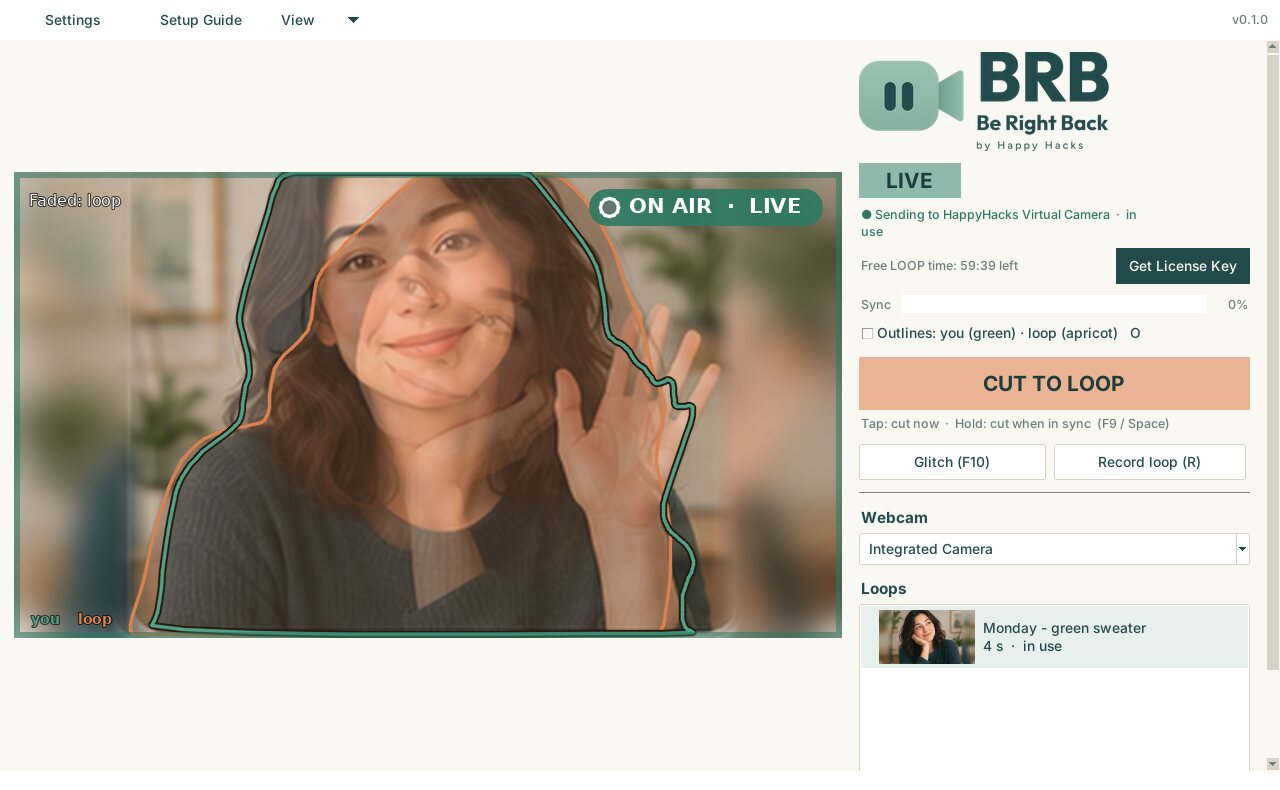
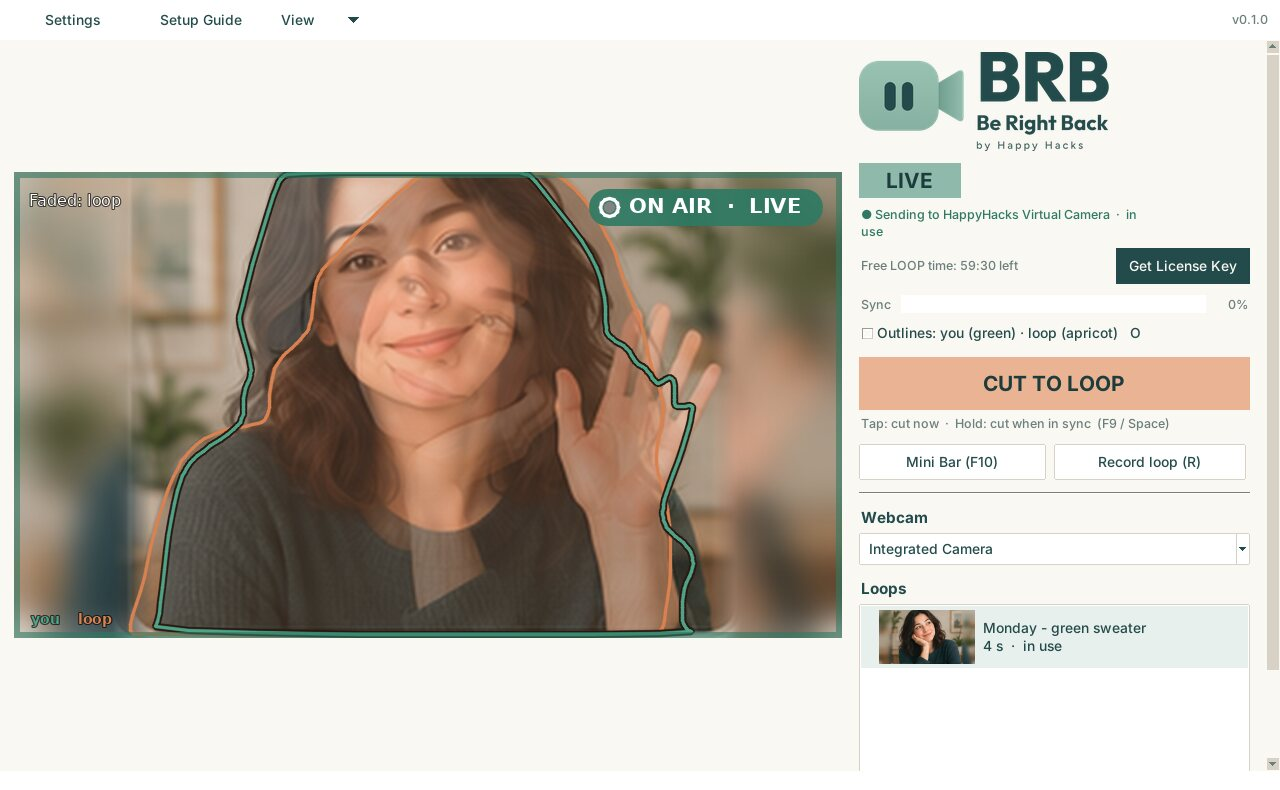
Guide and See it in action: no glitch effect; F10 switches full window / Mini Bar; new screenshots
Claude-Session: https://claude.ai/code/session_011pvpSPK9TdpwTULbn1yetv

diff --git a/dopplesite/templates/see.html b/dopplesite/templates/see.html
@@ -86,10 +86,11 @@
     <li class="see-step">
       <div class="see-text">
         <h2>Tip: the Mini Bar</h2>
-        <p>Choose <b>View → Mini Bar</b> for a small always-on-top strip you can park beside your meeting, with a
-          live thumbnail and the switch button. BRB's windows never show up in your screen share.</p>
+        <p>Press <b>F10</b> (or <b>View → Mini Bar</b>) for a small always-on-top strip you can park beside your
+          meeting, with a live thumbnail and the switch button. F10 again brings the full window back, even while
+          your meeting app is in front. BRB's windows never show up in your screen share.</p>
       </div>
-      <figure class="shot mini"><img src="{{ asset('img/action/minibar.jpg') }}" width="448" height="143" loading="lazy"
+      <figure class="shot mini"><img src="{{ asset('img/action/minibar.jpg') }}" width="402" height="143" loading="lazy"
         alt="The BRB Mini Bar: a thumbnail, the LIVE badge and a Cut to loop button"></figure>
     </li>
   </ol>

diff --git a/static/css/site.css b/static/css/site.css
@@ -242,7 +242,7 @@ code.key { font-size: 1.1rem; padding: 6px 10px; letter-spacing: .04em; }
 .shot { margin: 0; border-radius: 16px; overflow: hidden; background: var(--paper); border: 1px solid var(--line);
   box-shadow: 0 14px 40px rgba(36, 75, 75, .14); }
 .shot img { display: block; width: 100%; height: auto; }
-.shot.mini { max-width: 448px; justify-self: center; }
+.shot.mini { max-width: 402px; justify-self: center; }
 .meet { background: #1F2A2A; border-radius: 18px; padding: 12px; display: grid; grid-template-columns: 1fr 1fr; gap: 10px;
   box-shadow: 0 14px 40px rgba(36, 75, 75, .18); }
 .tile { position: relative; aspect-ratio: 249 / 184; border-radius: 10px; overflow: hidden; display: grid; place-items: center; }

diff --git a/GUIDE.md b/GUIDE.md
@@ -56,13 +56,13 @@ Release files are signed with a self-signed "BRB" certificate (`doppleganger-pub
 | Area | What it does |
 |---|---|
 | **Toolbar** | *Settings*, *Setup Guide*, and *View*: Normal or Mini Bar, larger / smaller text. |
-| **LIVE / LOOP** | What your meeting sees right now. LIVE is green, LOOP is apricot; GLITCH appears in amber while the glitch effect is running. The preview shows it too: a pulsing **ON AIR** sign and a border in the same colour. While recording, the badge turns red with the time (● REC 0:42 / 1:30). |
+| **LIVE / LOOP** | What your meeting sees right now. LIVE is green, LOOP is apricot. The preview shows it too: a pulsing **ON AIR** sign and a border in the same colour. While recording, the badge turns red with the time (● REC 0:42 / 1:30). |
 | **Sync** | How seamless a cut would be right now (green = in sync). |
 | **Cut button** | **Tap:** cut immediately (hard cut). **Hold:** BRB waits and cuts by itself the moment you're in sync; let go first to cancel. The button wears the colour of where you're cutting *to*. |
-| **Glitch / Record loop** | See below. |
+| **Mini Bar (F10) / Record loop (R)** | Switch to the Mini Bar; record a new loop (see below). |
 | **Webcam** | Pick which camera is your live feed (virtual cameras are never offered). |
 | **Loops** | Your loop library: thumbnails, names (*Rename*), *Use*, *Delete*. A ⚠ appears when a loop's lighting doesn't match your room right now (darker, brighter, different colour). |
-| **Mini Bar** (*View → Mini Bar*) | A compact always-on-top strip with a live thumbnail, sync meter, Cut and Glitch, to park beside your meeting. Drag it by the logo; *Full view* brings the window back. |
+| **Mini Bar** (*View → Mini Bar*) | A compact always-on-top strip with a live thumbnail, sync meter and Cut, to park beside your meeting. Drag it by the logo; *Full view*, **F10** or **M** brings the window back. |
 | **Settings** | License, text size, privacy, crossfade, guides, outlines, overlay strength, **recording length (60-600 s, default 90)**, the camera, updates. |
 
 **Hidden from screen sharing:** BRB's windows (main, mini bar, setup, settings) are excluded from screen capture. When you share your screen, viewers see what's behind them. This also hides them from your own screenshots. Turn it off in *Settings → Privacy*.
@@ -74,10 +74,11 @@ Release files are signed with a self-signed "BRB" certificate (`doppleganger-pub
 | Key | Action |
 |---|---|
 | **F9** | **Tap** = cut now. **Hold** = cut when in sync |
-| **F10** | Glitch effect (a stuttering picture that gives you a few seconds to settle back in) |
+| **F10** | Switch between the full window and the Mini Bar |
 | Space | Same as F9 (tap/hold), while the BRB window is focused |
 | R | Record a loop; press again (or Esc) to **cancel** a recording in progress. Nothing is saved |
-| B / K / C | Glitch / next webcam / calibrate the room (optional) |
+| M | Same as F10, while a BRB window is focused |
+| K / C | Next webcam / calibrate the room (optional) |
 | E | End the recording now (final stretch) |
 | O | Show or hide the live (green) and loop (apricot) **outlines** |
 | G / M | Show or hide guides / switch to the mini bar |
@@ -122,18 +123,14 @@ The app finds the frame in the final seconds that best matches the first, ends t
 
 - **Before the first cut**, the loop's start pose shows as a soft apricot shape with your green outline on top (with outlines on). Line them up ("In start pose – cut is seamless"), then cut, or just *hold* F9 and let BRB cut when you're there. The white silhouette appears only while recording.
 - **After that**, the preview shows the off-air feed faded over the on-air one: the loop while you're LIVE, your camera while the LOOP is on air. Line up until the green border appears, or hold F9.
-- **Outlines** (O, or the checkbox under the sync meter): an green line traces you live and a apricot line traces the loop, or the frozen picture during a glitch. When the two lines sit on top of each other, the cut is seamless.
-
-## Glitch effect
-
-Need a few seconds to sit back down? Press **F10**. The picture your meeting sees turns jerky and random: frozen frames, uneven bursts, and the occasional sharp in-between frame. It never goes blurry or blocky and never drops out. Your preview keeps the overlay, so you can line up with the frozen picture. Then press (or hold) **F9**: the next jump reveals you live, with a few catch-up steps before it runs smoothly. F10 again also ends it, and it stops by itself after 30 s.
+- **Outlines** (O, or the checkbox under the sync meter): a green line traces you live and a apricot line traces the loop. When the two lines sit on top of each other, the cut is seamless.
 
 ## The HappyHacks Virtual Camera
 
-A small DirectShow camera filter (64- and 32-bit) installed in `C:\ProgramData\BRB`, built from [softcam](https://github.com/tshino/softcam) (MIT) with its own name and ID, so it never clashes with OBS or other virtual cameras.
+A small DirectShow camera filter (64- and 32-bit) installed in `C:\ProgramData\Doppleganger`, built from [softcam](https://github.com/tshino/softcam) (MIT) with its own name and ID, so it never clashes with OBS or other virtual cameras.
 
-Meeting apps and browsers list it as **HappyHacks Virtual Camera** (older versions called it "BRB": pick the new name once in your meeting app). The installer adds it, and BRB installs or updates it by itself when needed (Windows asks for permission). On Windows BRB always uses it, never OBS, unless you set `output_camera` to `obs`. Your meeting app can select it any time. Whenever the BRB app isn't running (not started yet, or quit), the camera shows a neutral dark **"Camera starting…"** picture. It's deliberately generic, because meeting participants can see it, and it's never a frozen frame of you. To make sure the camera always has a real picture, turn on *Settings → Start BRB when Windows starts*; it opens minimized.
+Meeting apps and browsers list it as **HappyHacks Virtual Camera** (older versions called it "Doppleganger": pick the new name once in your meeting app). The installer adds it, and BRB installs or updates it by itself when needed (Windows asks for permission). On Windows BRB always uses it, never OBS, unless you set `output_camera` to `obs`. Your meeting app can select it any time. Whenever the BRB app isn't running (not started yet, or quit), the camera shows a neutral dark **"Camera starting…"** picture. It's deliberately generic, because meeting participants can see it, and it's never a frozen frame of you. To make sure the camera always has a real picture, turn on *Settings → Start BRB when Windows starts*; it opens minimized.
 
 ## Settings file
 
-`config.json` in the data folder. Useful fields: `camera_name`, `output_camera` (`auto`/`doppleganger`/`obs`), `width`/`height`/`fps`, `loop_seconds`, `hold_still_seconds`, `return_prompt_seconds`, `crossfade_ms`, `overlay_opacity`, `hotkey`, `glitch_hotkey` (pynput format, e.g. `"<ctrl>+<alt>+l"`), `glitch_max_seconds`, `mute_mic_on_loop`, `hide_from_screen_share`, `auto_update`.
+`config.json` in the data folder. Useful fields: `camera_name`, `output_camera` (`auto`/`doppleganger`/`obs`), `width`/`height`/`fps`, `loop_seconds`, `hold_still_seconds`, `return_prompt_seconds`, `crossfade_ms`, `overlay_opacity`, `hotkey`, `view_hotkey` (pynput format, e.g. `"<ctrl>+<alt>+l"`), `mute_mic_on_loop`, `hide_from_screen_share`, `auto_update`.
